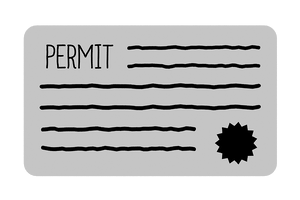
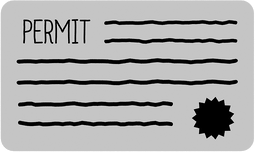
Adjust image sizes

diff --git a/app/src/main/java/tools/utilities/UI.kt b/app/src/main/java/tools/utilities/UI.kt
@@ -143,12 +143,13 @@ fun numberToString(amount: Double): String {
 
     // If using %.3g for the string format it _sometimes_ ends up in sci. notation
     // It seems to only be cases where it's right below the threshold of the next power of ten
-    // e.g. 999,999,999,999.999999 becomes 1.00+e03B
-    // In this case, strip off the +e03 and bump the unit to the next tier letter
+    // e.g. 999,999,999,999.999999 becomes 1.00e+03B
+    // In this case, strip off the e+03 and bump the unit to the next tier letter
 
     if (formatted.contains("e+")) {
         val split = formatted.split("e+")
         val unitIndex = units.indexOf(unit)
+        if ((unitIndex + 1) >= units.size) return "Inf"
         unit = units[unitIndex + 1]
         formatted = split[0]
     }

diff --git a/app/src/main/java/widget/stats/normal/StatsWidgetNormal.kt b/app/src/main/java/widget/stats/normal/StatsWidgetNormal.kt
@@ -189,7 +189,7 @@ fun NameAndPermit(
         Image(
             provider = ImageProvider(permitBitmap),
             contentDescription = "Permit Icon",
-            modifier = GlanceModifier.size(20.dp)
+            modifier = GlanceModifier.size(24.dp)
         )
     }
 }
